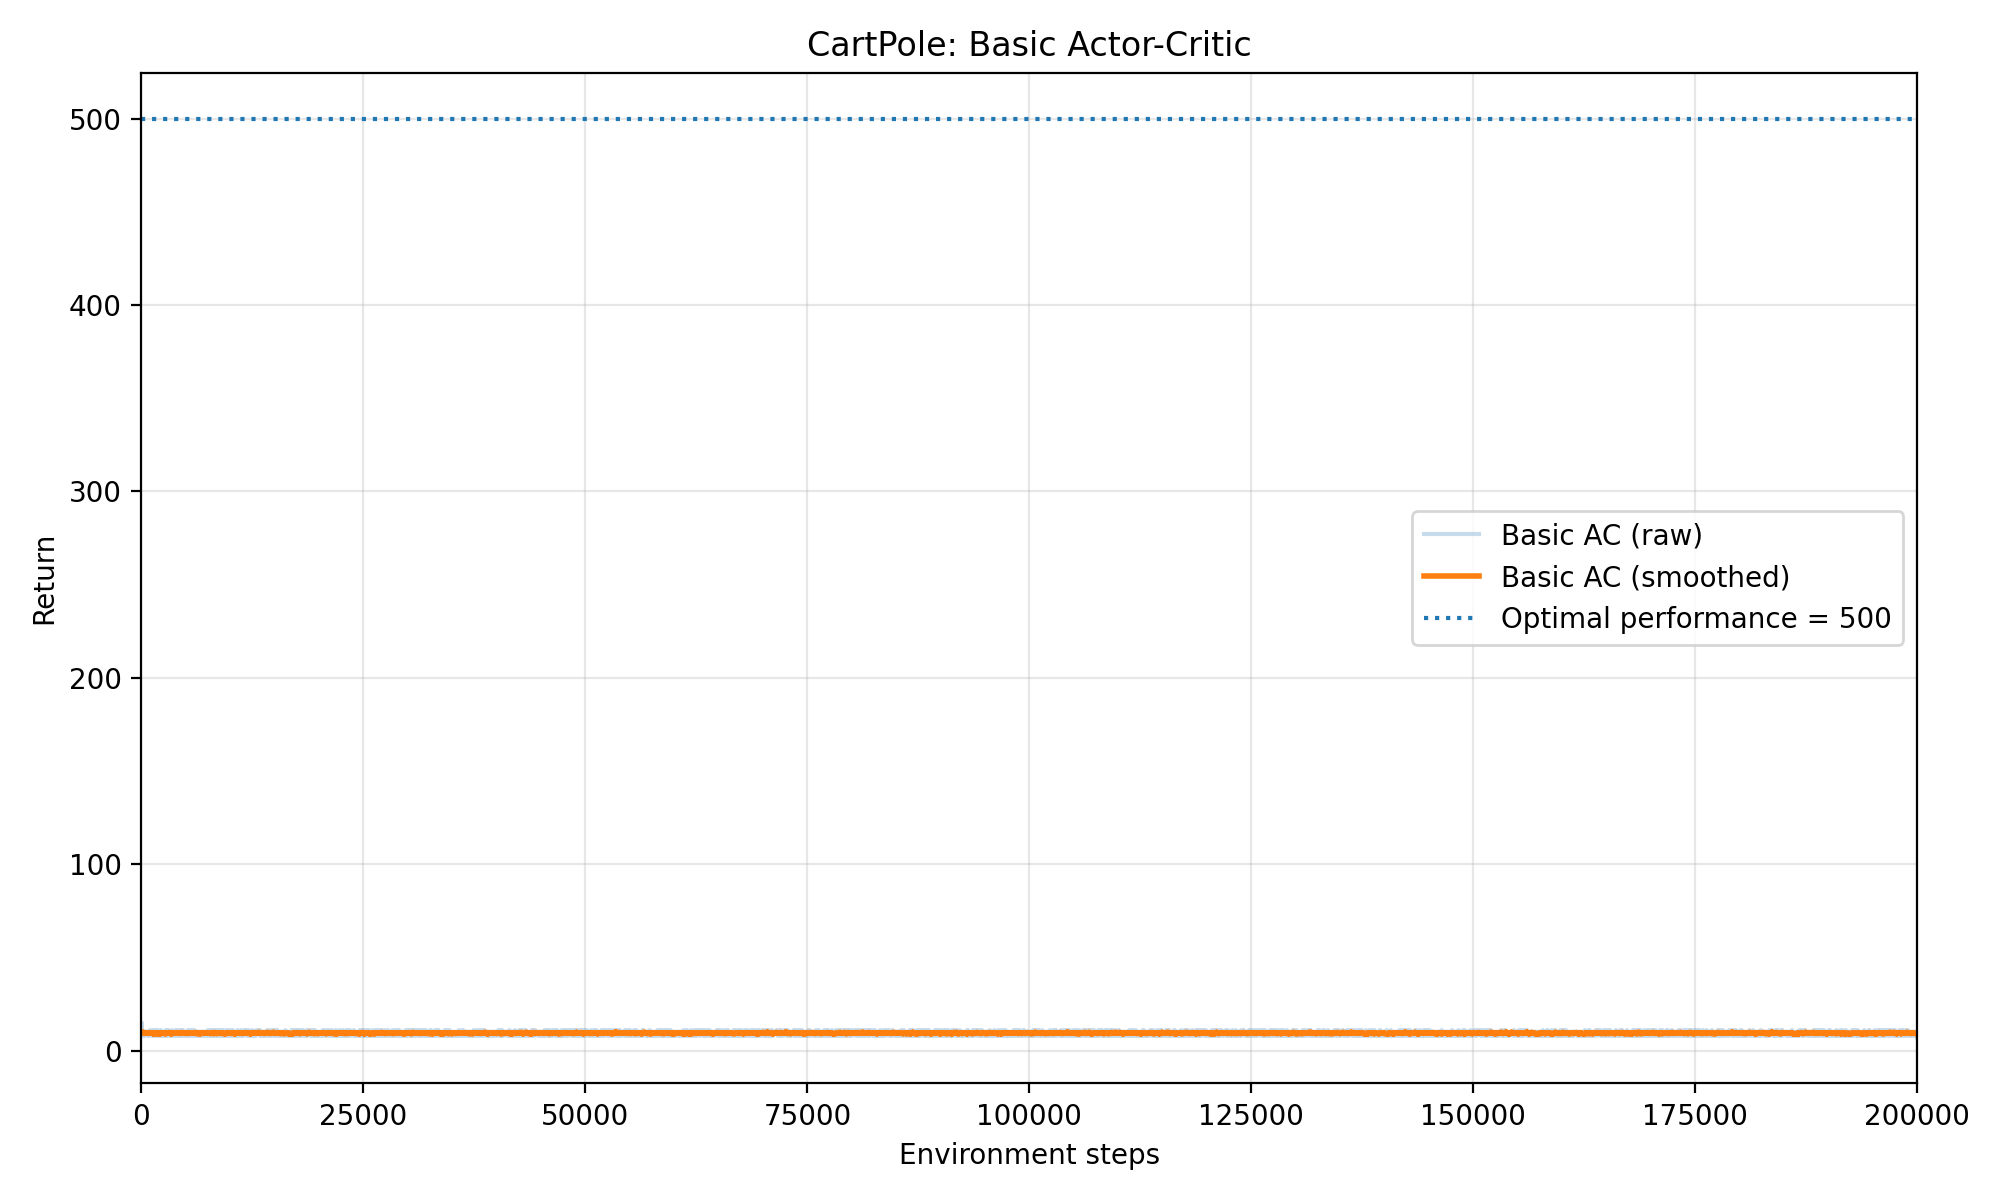
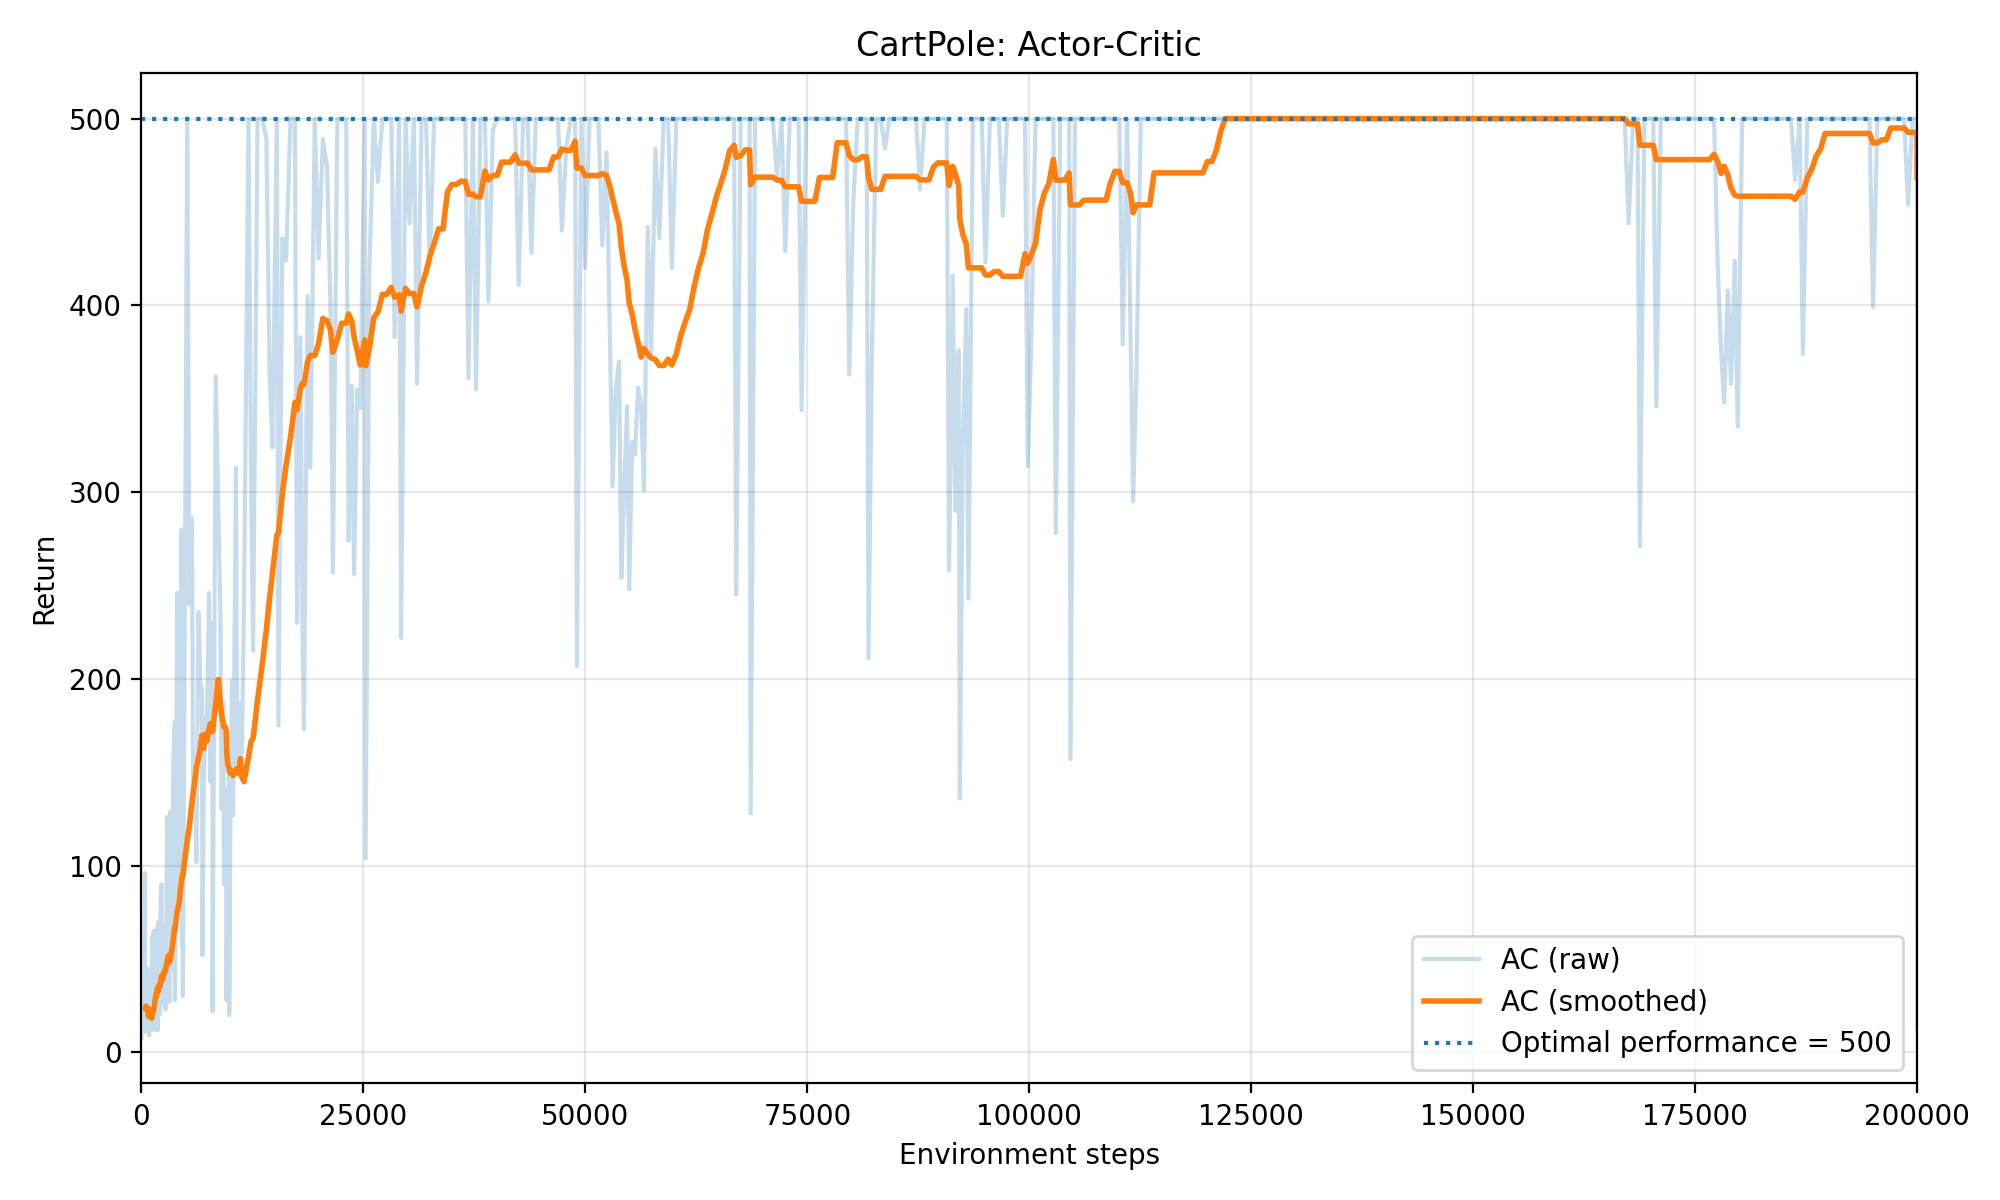
fixed AC

diff --git a/AC.py b/AC.py
@@ -4,14 +4,11 @@ from dataclasses import dataclass
 import gymnasium as gym
 import matplotlib.pyplot as plt
 import numpy as np
-import pandas as pd
 import torch
 import torch.nn as nn
 import torch.optim as optim
 from torch.distributions import Categorical
 
-
-# config
 
 @dataclass
 class Config:
@@ -30,7 +27,6 @@ class Config:
     plot_path: str = "actor_critic_cartpole.png"
 
 
-
 def set_seed(seed: int):
     random.seed(seed)
     np.random.seed(seed)
@@ -43,7 +39,15 @@ def moving_average(x, window=20):
     return np.convolve(x, np.ones(window) / window, mode="valid")
 
 
-# networks
+def compute_returns(rewards, gamma):
+    returns = []
+    G = 0.0
+    for r in reversed(rewards):
+        G = r + gamma * G
+        returns.append(G)
+    returns.reverse()
+    return returns
+
 
 class PolicyNetwork(nn.Module):
     def __init__(self, obs_dim: int, action_dim: int, hidden_sizes=(128, 128)):
@@ -58,7 +62,7 @@ class PolicyNetwork(nn.Module):
         self.net = nn.Sequential(*layers)
 
     def forward(self, x):
-        return self.net(x)  # logits
+        return self.net(x)
 
 
 class QNetwork(nn.Module):
@@ -74,10 +78,8 @@ class QNetwork(nn.Module):
         self.net = nn.Sequential(*layers)
 
     def forward(self, x):
-        return self.net(x)  # Q(s, ·)
+        return self.net(x)
 
-
-# agent
 
 class ActorCriticAgent:
     def __init__(self, obs_dim: int, action_dim: int, cfg: Config, device="cpu"):
@@ -92,7 +94,7 @@ class ActorCriticAgent:
 
         self.critic_loss_fn = nn.MSELoss()
 
-    def sample_action_and_log_prob(self, state: np.ndarray):
+    def sample_action(self, state):
         state_t = torch.tensor(state, dtype=torch.float32, device=self.device).unsqueeze(0)
         logits = self.actor(state_t)
         dist = Categorical(logits=logits)
@@ -100,50 +102,41 @@ class ActorCriticAgent:
         log_prob = dist.log_prob(action)
         return int(action.item()), log_prob.squeeze()
 
-    def update(self, state, action, log_prob, reward, next_state, done):
-        state_t = torch.tensor(state, dtype=torch.float32, device=self.device).unsqueeze(0)
-        next_state_t = torch.tensor(next_state, dtype=torch.float32, device=self.device).unsqueeze(0)
-        action_t = torch.tensor([[action]], dtype=torch.long, device=self.device)
-        reward_t = torch.tensor([[reward]], dtype=torch.float32, device=self.device)
-        done_t = torch.tensor([[float(done)]], dtype=torch.float32, device=self.device)
+    def update_episode(self, states, actions, log_probs, returns):
+        states_t = torch.tensor(np.array(states), dtype=torch.float32, device=self.device)
+        actions_t = torch.tensor(actions, dtype=torch.long, device=self.device).unsqueeze(1)
+        returns_t = torch.tensor(returns, dtype=torch.float32, device=self.device).unsqueeze(1)
 
-        # current Q(s,a)
-        q_values = self.critic(state_t)
-        q_sa = q_values.gather(1, action_t)  # shape [1,1]
+        # ----- actor update -----
+        # Use MC return minus critic baseline
+        logits = self.actor(states_t)
+        probs = torch.softmax(logits, dim=-1)
 
-        # sample next action from current policy (on-policy target)
         with torch.no_grad():
-            if done:
-                target = reward_t
-            else:
-                next_logits = self.actor(next_state_t)
-                next_dist = Categorical(logits=next_logits)
-                next_action = next_dist.sample()
-                next_q_values = self.critic(next_state_t)
-                next_q_sa = next_q_values.gather(1, next_action.view(1, 1))
-                target = reward_t + self.gamma * next_q_sa
+            q_values_detached = self.critic(states_t)                  # [T, action_dim]
+            baseline = (probs * q_values_detached).sum(dim=1)         # [T]
+            advantage = returns_t.squeeze(1) - baseline               # [T]
 
-        # critic update
-        critic_loss = self.critic_loss_fn(q_sa, target)
-
-        self.critic_optimizer.zero_grad()
-        critic_loss.backward()
-        self.critic_optimizer.step()
-
-        # actor update
-        with torch.no_grad():
-            q_for_actor = self.critic(state_t).gather(1, action_t).squeeze()
-
-        actor_loss = -log_prob * q_for_actor
+        log_probs_t = torch.stack(log_probs)                          # [T]
+        actor_loss = -(log_probs_t * advantage).mean()
 
         self.actor_optimizer.zero_grad()
         actor_loss.backward()
         self.actor_optimizer.step()
 
+        # ----- critic update -----
+        # Fit Q(s,a) to MC return G_t
+        q_values = self.critic(states_t)                              # [T, action_dim]
+        q_sa = q_values.gather(1, actions_t)                          # [T, 1]
+
+        critic_loss = self.critic_loss_fn(q_sa, returns_t)
+
+        self.critic_optimizer.zero_grad()
+        critic_loss.backward()
+        self.critic_optimizer.step()
+
         return actor_loss.item(), critic_loss.item()
 
-
-# training
 
 def train(cfg: Config):
     set_seed(cfg.seed)
@@ -157,7 +150,7 @@ def train(cfg: Config):
     env_steps = 0
     episode_idx = 0
 
-    returns = []
+    returns_history = []
     return_steps = []
     actor_losses = []
     critic_losses = []
@@ -167,29 +160,43 @@ def train(cfg: Config):
         done = False
         episode_return = 0.0
 
-        while not done and env_steps < cfg.total_env_steps:
-            action, log_prob = agent.sample_action_and_log_prob(state)
+        states = []
+        actions = []
+        rewards = []
+        log_probs = []
 
+        while not done and env_steps < cfg.total_env_steps:
+            action, log_prob = agent.sample_action(state)
             next_state, reward, terminated, truncated, _ = env.step(action)
             done = terminated or truncated
 
-            actor_loss, critic_loss = agent.update(
-                state, action, log_prob, reward, next_state, done
-            )
-
-            actor_losses.append(actor_loss)
-            critic_losses.append(critic_loss)
+            states.append(state)
+            actions.append(action)
+            rewards.append(reward)
+            log_probs.append(log_prob)
 
             state = next_state
             episode_return += reward
             env_steps += 1
 
+        mc_returns = compute_returns(rewards, cfg.gamma)
+
+        actor_loss, critic_loss = agent.update_episode(
+            states=states,
+            actions=actions,
+            log_probs=log_probs,
+            returns=mc_returns,
+        )
+
+        actor_losses.append(actor_loss)
+        critic_losses.append(critic_loss)
+
         episode_idx += 1
-        returns.append(episode_return)
+        returns_history.append(episode_return)
         return_steps.append(env_steps)
 
         if episode_idx % cfg.log_every_episodes == 0:
-            avg_last_10 = np.mean(returns[-10:]) if len(returns) >= 10 else np.mean(returns)
+            avg_last_10 = np.mean(returns_history[-10:]) if len(returns_history) >= 10 else np.mean(returns_history)
             avg_actor = np.mean(actor_losses[-100:]) if len(actor_losses) >= 100 else np.mean(actor_losses)
             avg_critic = np.mean(critic_losses[-100:]) if len(critic_losses) >= 100 else np.mean(critic_losses)
 
@@ -198,40 +205,36 @@ def train(cfg: Config):
                 f"Steps {env_steps:6d} | "
                 f"Return {episode_return:6.1f} | "
                 f"Avg(Last10) {avg_last_10:6.1f} | "
-                f"ActorLoss {avg_actor:9.4f} | "
-                f"CriticLoss {avg_critic:9.4f}"
+                f"ActorLoss {avg_actor:10.6f} | "
+                f"CriticLoss {avg_critic:10.6f}"
             )
 
     env.close()
 
     return (
         np.array(return_steps),
-        np.array(returns),
+        np.array(returns_history),
         np.array(actor_losses),
         np.array(critic_losses),
     )
 
-
-# plotting
 
 def plot_learning_curve(return_steps, returns, cfg: Config):
     plt.figure(figsize=(10, 6))
 
     max_step = int(return_steps[-1])
 
-    plt.plot(return_steps, returns, alpha=0.25, label="Basic AC (raw)")
+    plt.plot(return_steps, returns, alpha=0.25, label="AC (raw)")
     if len(returns) >= 20:
         smoothed = moving_average(returns, window=20)
         smoothed_steps = return_steps[19:]
-        plt.plot(smoothed_steps, smoothed, linewidth=2, label="Basic AC (smoothed)")
-
-
+        plt.plot(smoothed_steps, smoothed, linewidth=2, label="AC (smoothed)")
 
     plt.axhline(500, linestyle=":", linewidth=1.5, label="Optimal performance = 500")
     plt.xlim(0, max_step)
     plt.xlabel("Environment steps")
     plt.ylabel("Return")
-    plt.title("CartPole: Basic Actor-Critic")
+    plt.title("CartPole: Actor-Critic")
     plt.legend()
     plt.grid(True, alpha=0.3)
     plt.tight_layout()
